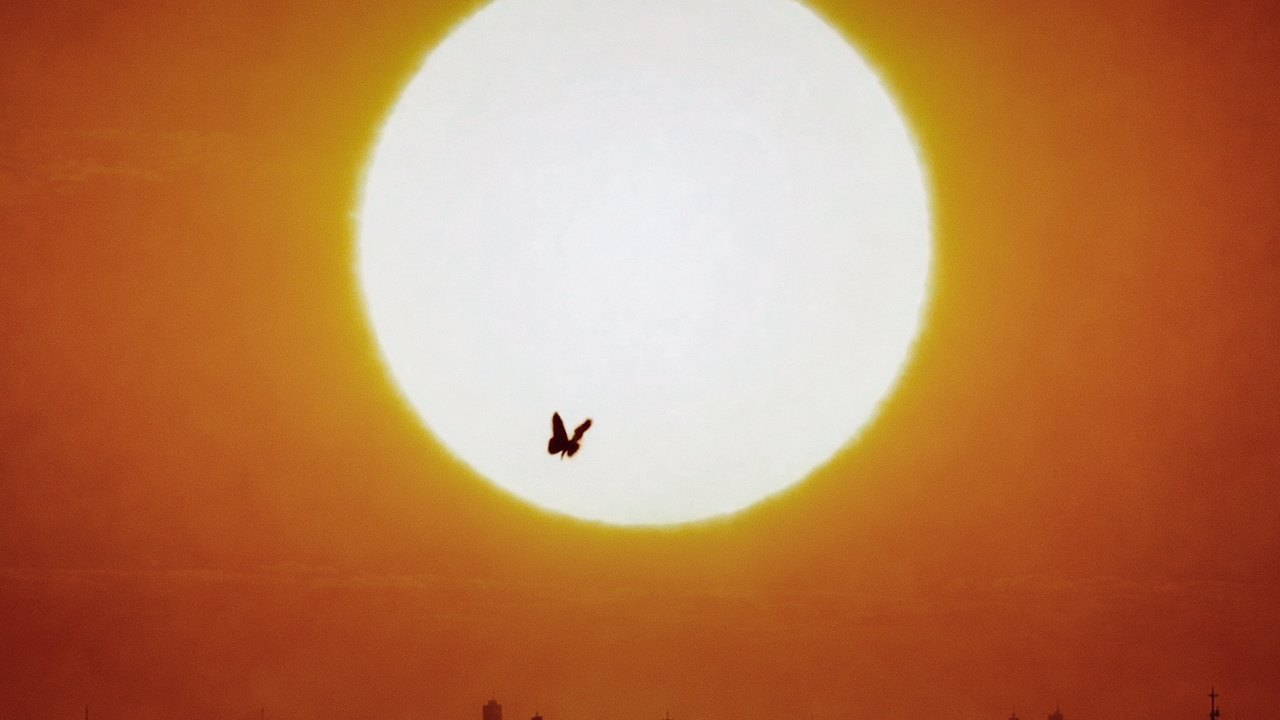
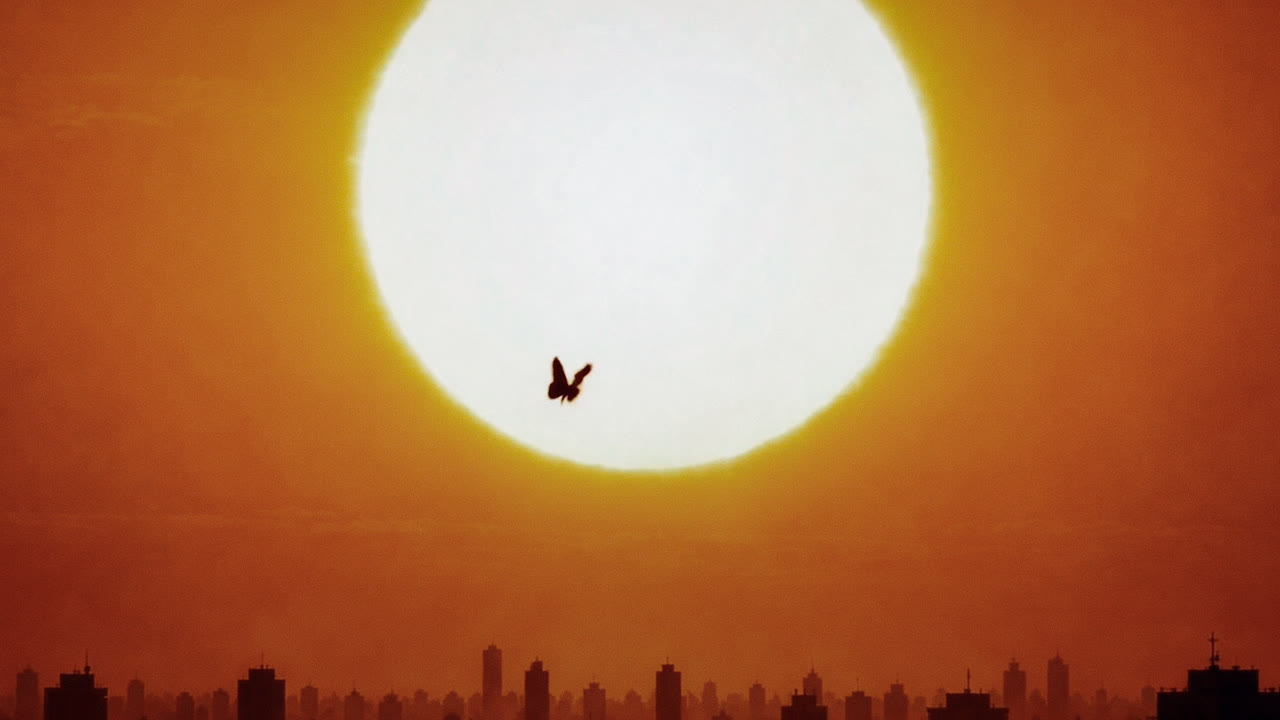
Preview: Instagram cover frames for Lady Bird, Something Special, Distant Lover; inline-play attributes on loops

Changed region(s): [[0.25, 0.0, 0.75, 0.825], [0.0, 0.8861, 1.0, 1.0], [0.25, 0.0, 0.4062, 0.275]]

diff --git a/preview/index.html b/preview/index.html
@@ -1648,9 +1648,9 @@ footer p { font-size: 0.65rem; font-family: 'DM Sans', sans-serif; font-style: n
     <div class="work-item" data-cat="video" data-vimeo="1249151733"><img src="../assets/im-47-3f39cd2c6a.jpg" alt="Cal WBB" style="width:100%;height:100%;object-fit:cover;display:block;"><div class="work-overlay"><p class="work-tag">Video · November 2026</p><p class="work-name">Cal WBB</p><p class="work-subtitle">3D VFX Intro</p></div></div>
     <div class="work-item" data-cat="video" data-vimeo="1249151670"><img src="../assets/im-50-13043198f7.jpg" alt="Arran Studios Black Friday" style="width:100%;height:100%;object-fit:cover;display:block;"><div class="work-overlay"><p class="work-tag">Video · November 2026</p><p class="work-name">Arran Studios</p><p class="work-subtitle">Black Friday Campaign VFX</p></div></div>
     <div class="work-item" data-cat="video" data-vimeo="1249151833"><img src="../assets/im-51-a750fa17cd.jpg" alt="Esdeekid Dallas" style="width:100%;height:100%;object-fit:cover;display:block;"><div class="work-overlay"><p class="work-tag">Video · October 2026</p><p class="work-name">Esdeekid Dallas</p><p class="work-subtitle">Show Recap</p></div></div>
-    <div class="work-item" data-cat="video" data-key="ladybird" data-src="films/ladybird_30.mp4"><img src="thumbs/ladybird.jpg" alt="Lady Bird - Follow the Fizz" style="width:100%;height:100%;object-fit:cover;display:block;"><div class="work-overlay"><p class="work-tag">Video · September 2026</p><p class="work-name">Lady Bird</p><p class="work-subtitle">Follow the Fizz · :30 spot</p></div></div>
-    <div class="work-item" data-cat="video" data-key="something-special" data-yt="xSmni9mDtdU"><img src="thumbs/something-special.jpg" alt="Khalid and Ahn Hyo-seop - Something Special" style="width:100%;height:100%;object-fit:cover;display:block;"><div class="work-overlay"><p class="work-tag">Video · August 2026</p><p class="work-name">Khalid x Ahn Hyo-seop</p><p class="work-subtitle">Something Special · Music Video</p></div></div>
-    <div class="work-item" data-cat="video" data-key="distant-lover" data-yt="V8KO2qf23Mc"><img src="thumbs/distant-lover.jpg" alt="JIHYO and Shenseea - Distant Lover" style="width:100%;height:100%;object-fit:cover;display:block;"><div class="work-overlay"><p class="work-tag">Video · July 2026</p><p class="work-name">JIHYO x Shenseea</p><p class="work-subtitle">Distant Lover · Music Video</p></div></div>
+    <div class="work-item" data-cat="video" data-key="ladybird" data-src="films/ladybird_30.mp4"><img src="thumbs/ladybird.jpg?v=2" alt="Lady Bird - Follow the Fizz" style="width:100%;height:100%;object-fit:cover;display:block;"><div class="work-overlay"><p class="work-tag">Video · September 2026</p><p class="work-name">Lady Bird</p><p class="work-subtitle">Follow the Fizz · :30 spot</p></div></div>
+    <div class="work-item" data-cat="video" data-key="something-special" data-yt="xSmni9mDtdU"><img src="thumbs/something-special.jpg?v=2" alt="Khalid and Ahn Hyo-seop - Something Special" style="width:100%;height:100%;object-fit:cover;display:block;"><div class="work-overlay"><p class="work-tag">Video · August 2026</p><p class="work-name">Khalid x Ahn Hyo-seop</p><p class="work-subtitle">Something Special · Music Video</p></div></div>
+    <div class="work-item" data-cat="video" data-key="distant-lover" data-yt="V8KO2qf23Mc"><img src="thumbs/distant-lover.jpg?v=2" alt="JIHYO and Shenseea - Distant Lover" style="width:100%;height:100%;object-fit:cover;display:block;"><div class="work-overlay"><p class="work-tag">Video · July 2026</p><p class="work-name">JIHYO x Shenseea</p><p class="work-subtitle">Distant Lover · Music Video</p></div></div>
     <div class="work-item" data-cat="video" data-vimeo="1204418162" data-vimeo-hash="bd5df28e4e"><img src="../assets/im-03-bd653586ab.jpg" alt="Like a Bird Music Video" style="width:100%;height:100%;object-fit:cover;display:block;"><div class="work-overlay"><p class="work-tag">Video · February 2026</p><p class="work-name">Lihtz - Like A Bird</p><p class="work-subtitle">Music Video</p></div></div>
     <div class="work-item" data-cat="video" data-vimeo="1204561560"><img src="../assets/im-04-1ce83a6b89.jpg" alt="Bronco x CCF" style="width:100%;height:100%;object-fit:cover;display:block;"><div class="work-overlay"><p class="work-tag">Video · April 2026</p><p class="work-name">Bronco x CCF</p></div></div>
     <div class="work-item" data-cat="video" data-vimeo="1203337382"><img src="../assets/im-05-c21f2a61ed.jpg" alt="For Seattle." style="width:100%;height:100%;object-fit:cover;display:block;"><div class="work-overlay"><p class="work-tag">Video · February 2026</p><p class="work-name">For Seattle.</p><p class="work-subtitle">Seattle Seahawks Super Bowl Hype Video</p></div></div>
@@ -2767,5 +2767,5 @@ footer p { color: rgba(236,234,228,0.5); }
 })();
 </script>
 
-<link rel="stylesheet" href="mock.css?v=col25"><script src="mock.js?v=5"></script><script src="scrollfx.js?v=4"></script><script src="wheel.js?v=16"></script><script src="colour.js?v=17"></script><link rel="stylesheet" href="collage.css"><script src="collage.js?v=6"></script><script src="ba.js?v=1"></script></body>
+<link rel="stylesheet" href="mock.css?v=col25"><script src="mock.js?v=6"></script><script src="scrollfx.js?v=4"></script><script src="wheel.js?v=16"></script><script src="colour.js?v=17"></script><link rel="stylesheet" href="collage.css"><script src="collage.js?v=6"></script><script src="ba.js?v=1"></script></body>
 </html>

diff --git a/preview/mock.js b/preview/mock.js
@@ -7,6 +7,7 @@
     var lid = t.dataset.vimeo || t.dataset.key; if (loops.indexOf(lid) === -1) return;
     var v = document.createElement('video');
     v.className = 'm-loop'; v.muted = true; v.loop = true; v.playsInline = true; v.preload = 'metadata';
+    v.setAttribute('muted', ''); v.setAttribute('playsinline', ''); v.setAttribute('webkit-playsinline', ''); v.disableRemotePlayback = true;   // iPhone only autoplays inline when these are attributes
     v.src = 'loops/' + lid + '.mp4';
     t.insertBefore(v, t.querySelector('.work-overlay'));
     function on(){ t.classList.add('m-playing'); var p = v.play(); if (p && p.catch) p.catch(function(){}); }
